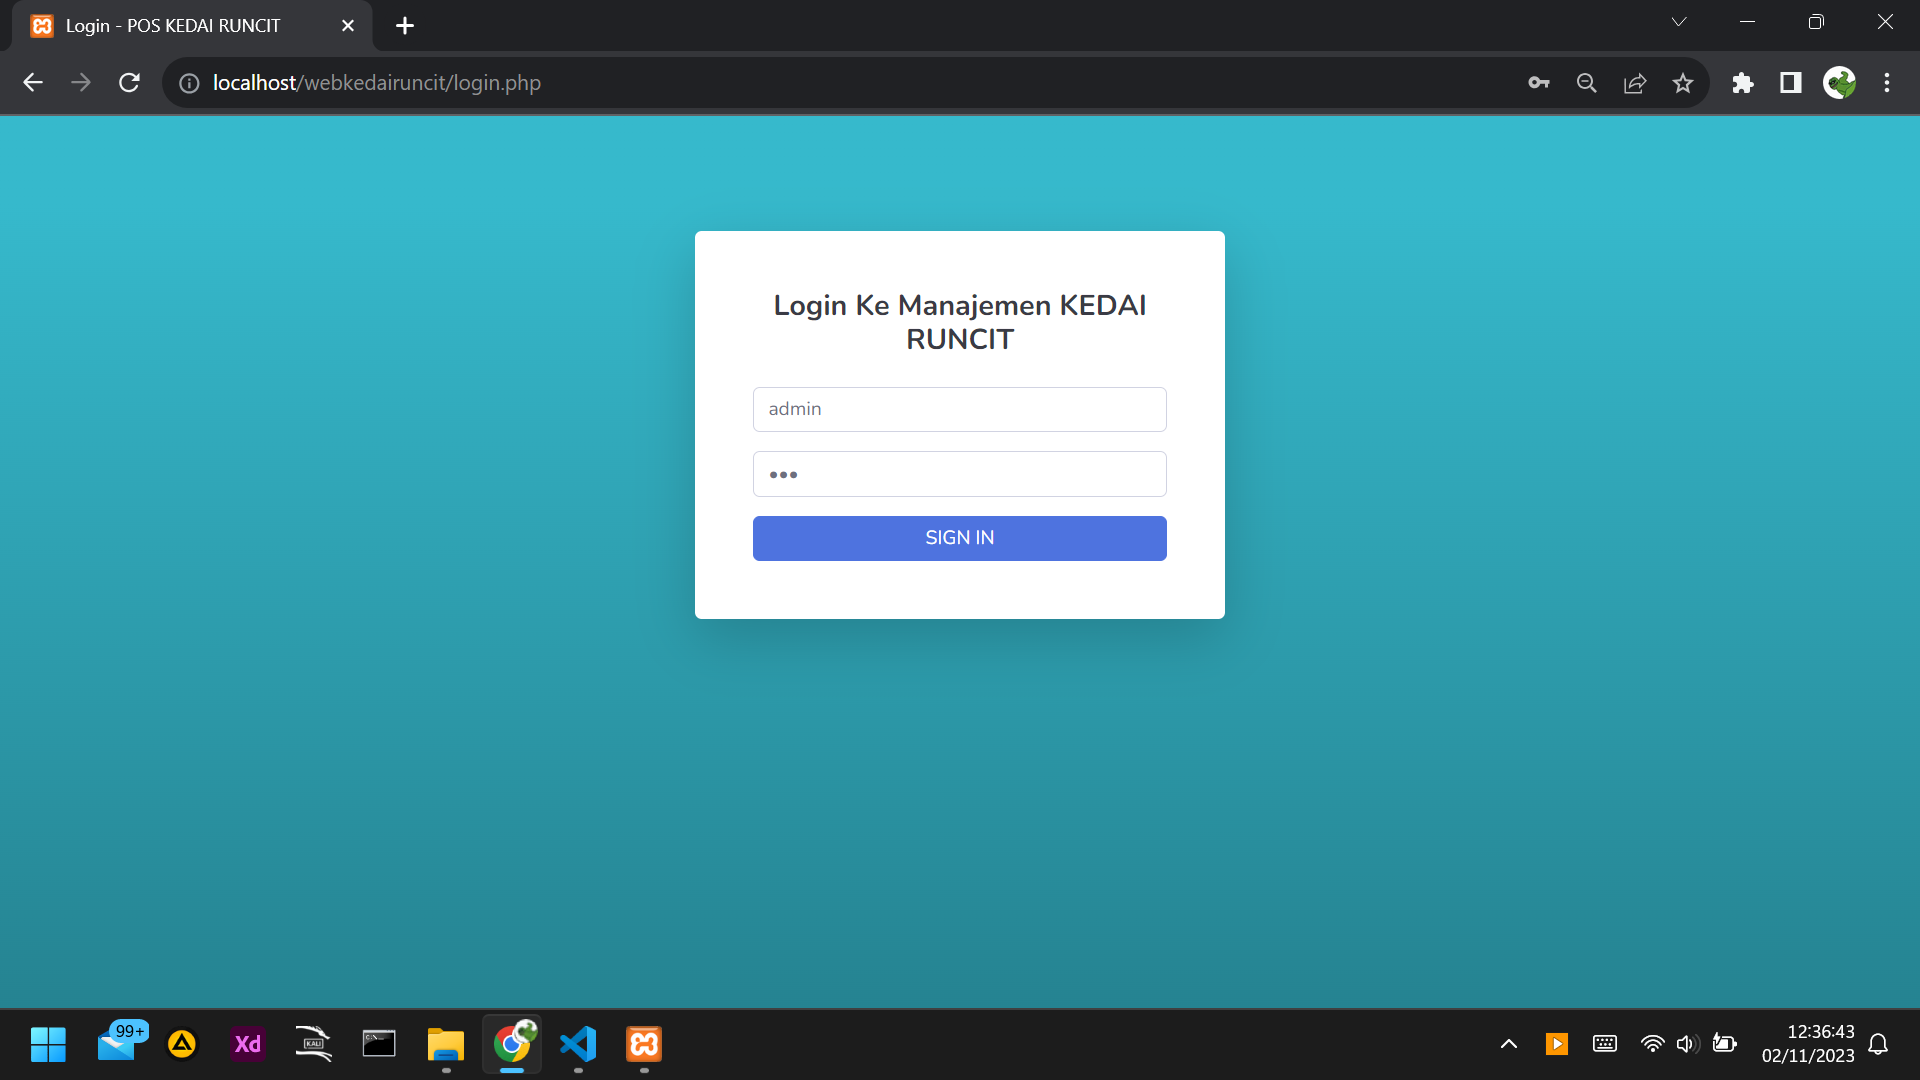
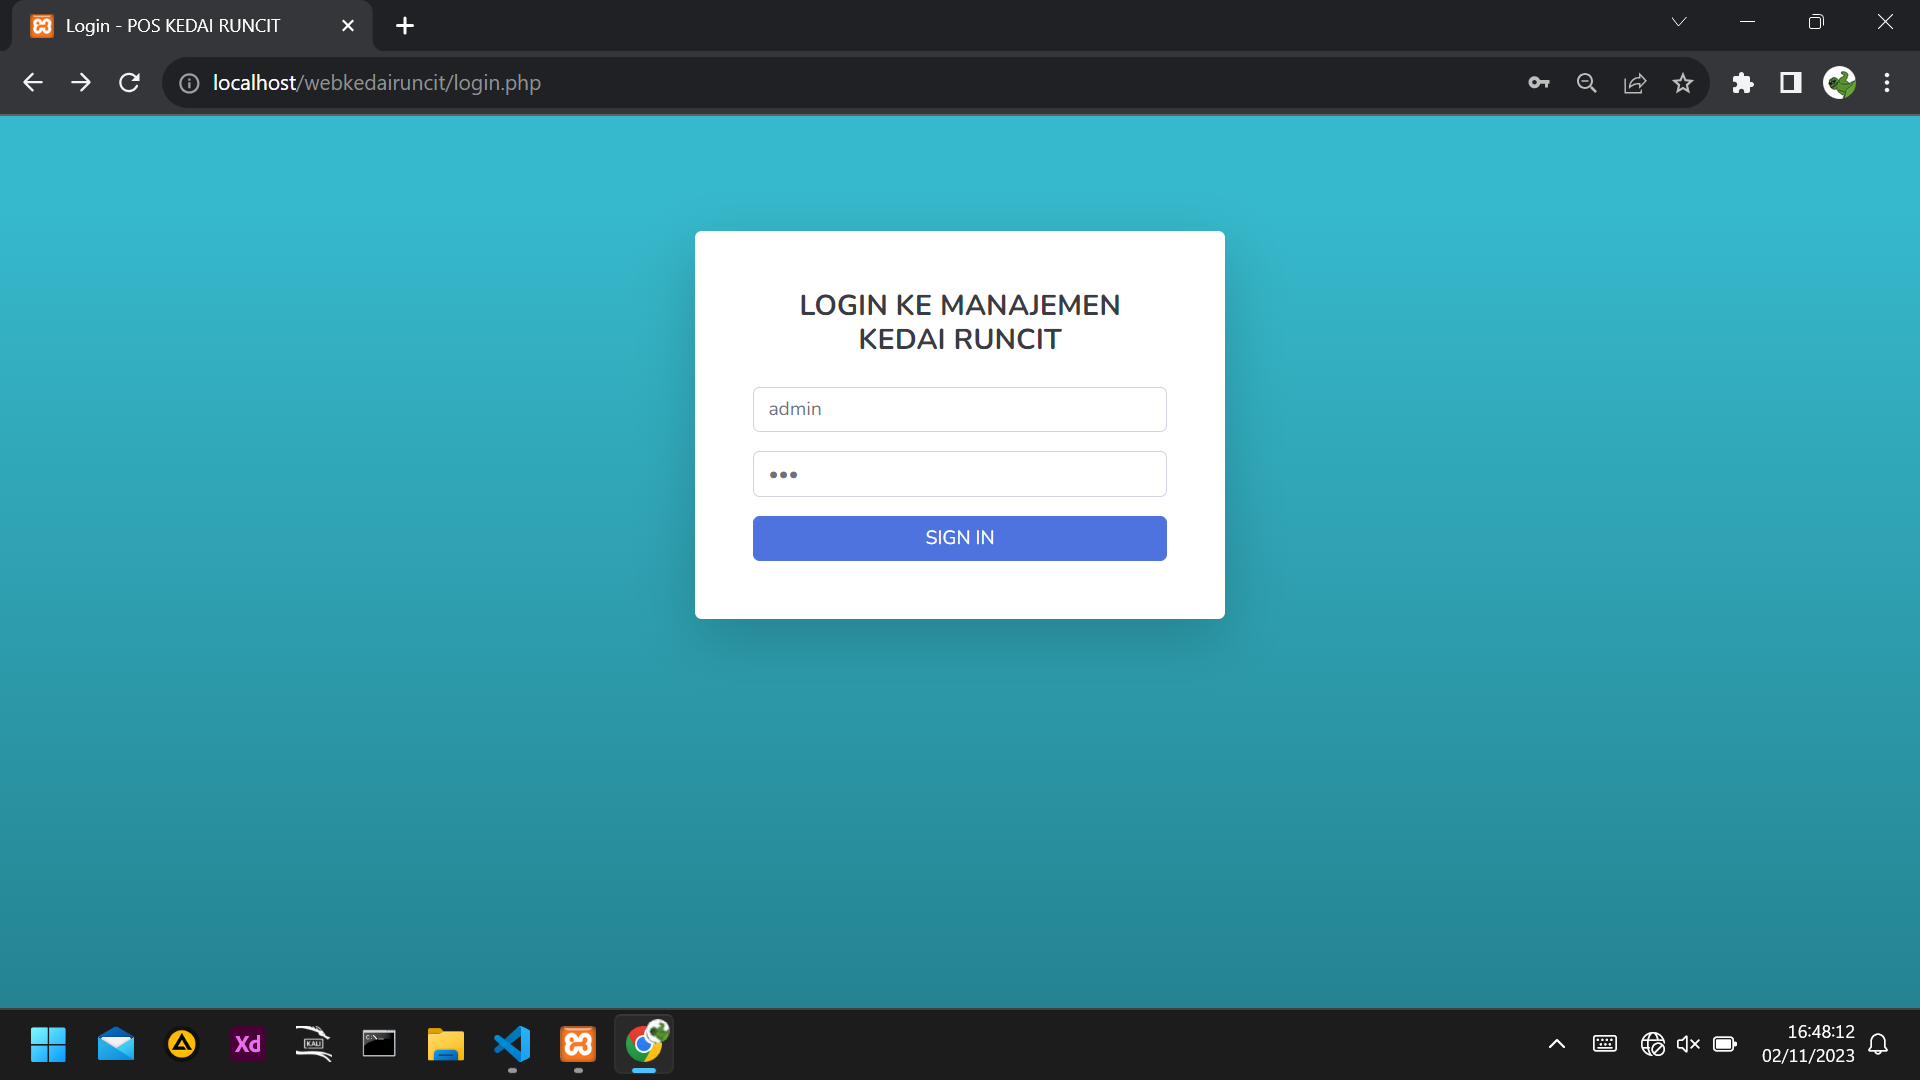
2nd commit

diff --git a/login.php b/login.php
@@ -34,9 +34,7 @@ if (isset($_POST['proses'])) {
     <title>Login - POS KEDAI RUNCIT</title>
 
     <link href="vendor/fontawesome-free/css/all.min.css" rel="stylesheet" type="text/css">
-    <link
-        href="https://fonts.googleapis.com/css?family=Nunito:200,200i,300,300i,400,400i,600,600i,700,700i,800,800i,900,900i"
-        rel="stylesheet">
+    <link href="https://fonts.googleapis.com/css?family=Nunito:200,200i,300,300i,400,400i,600,600i,700,700i,800,800i,900,900i" rel="stylesheet">
 
     <link href="sb-admin/css/sb-admin-2.min.css" rel="stylesheet">
 </head>
@@ -51,19 +49,16 @@ if (isset($_POST['proses'])) {
 
                         <div class="p-5">
                             <div class="text-center">
-                                <h4 class="h4 text-gray-900 mb-4"><b>Login Ke Manajemen KEDAI RUNCIT</b></h4>
+                                <h4 class="h4 text-gray-900 mb-4"><b>LOGIN KE MANAJEMEN KEDAI RUNCIT</b></h4>
                             </div>
                             <form class="form-login" method="POST">
                                 <div class="form-group">
-                                    <input type="text" class="form-control form-control-user" name="user"
-                                        placeholder="User ID" autofocus>
+                                    <input type="text" class="form-control form-control-user" name="user" placeholder="User ID" autofocus>
                                 </div>
                                 <div class="form-group">
-                                    <input type="password" class="form-control form-control-user" name="pass"
-                                        placeholder="Password">
+                                    <input type="password" class="form-control form-control-user" name="pass" placeholder="Password">
                                 </div>
-                                <button class="btn btn-primary btn-block" name="proses" type="submit"><i
-                                        class="fa fa-lock"></i>
+                                <button class="btn btn-primary btn-block" name="proses" type="submit"><i class="fa fa-lock"></i>
                                     SIGN IN</button>
                             </form>
                             <!-- <hr>
